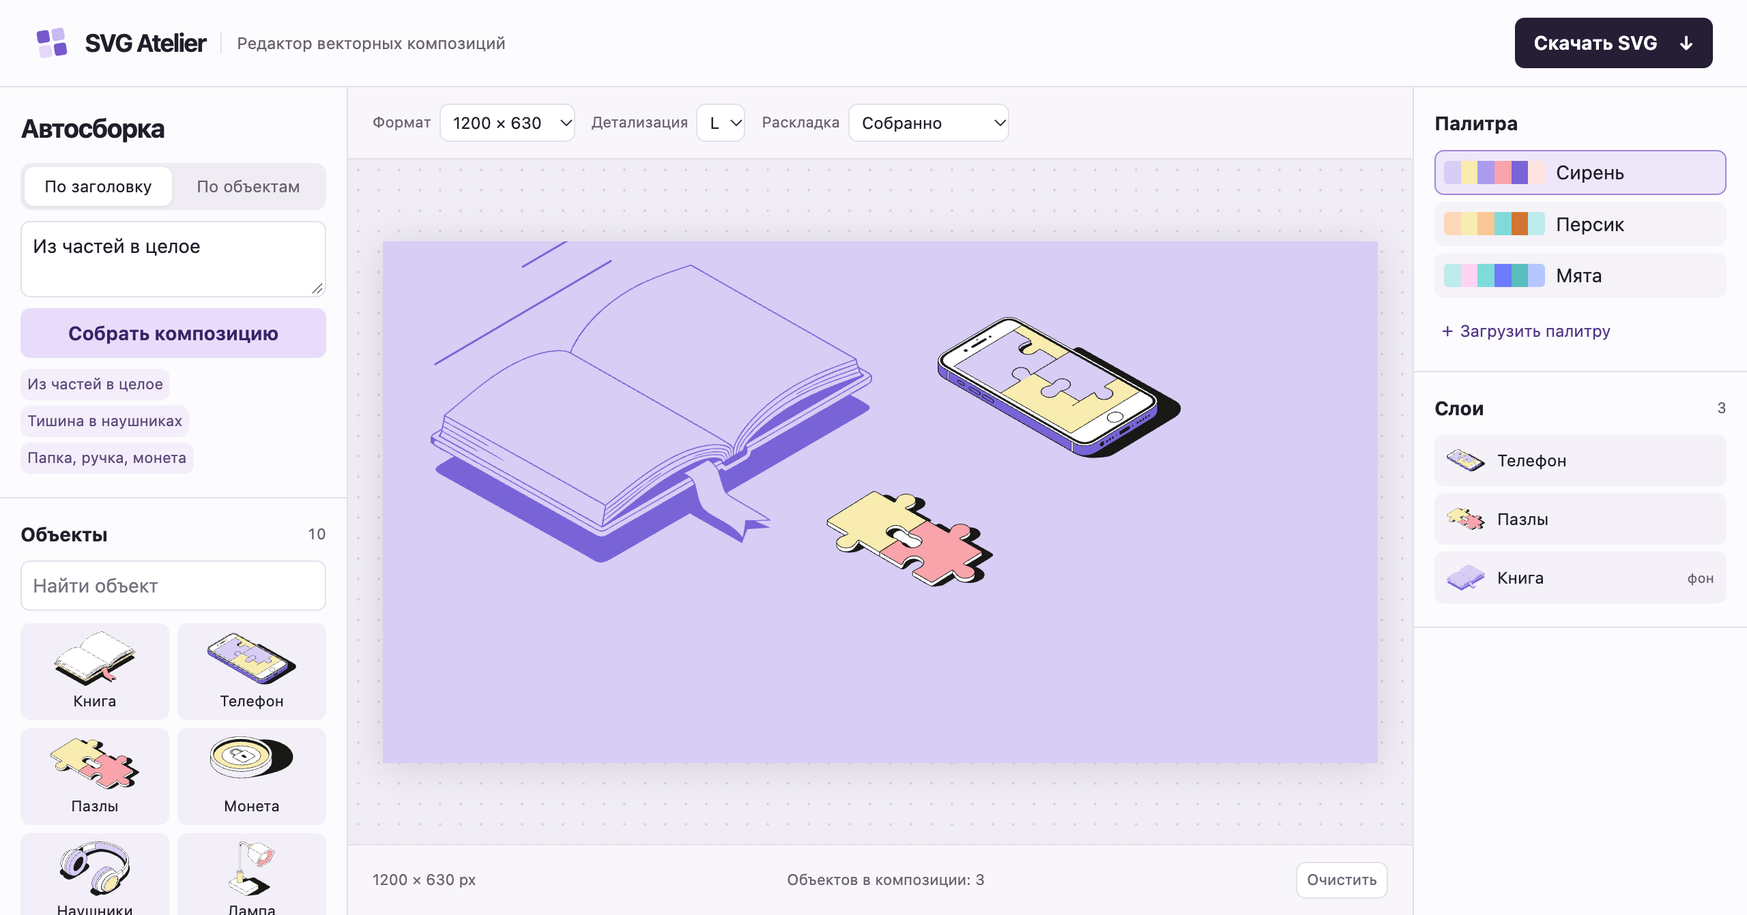
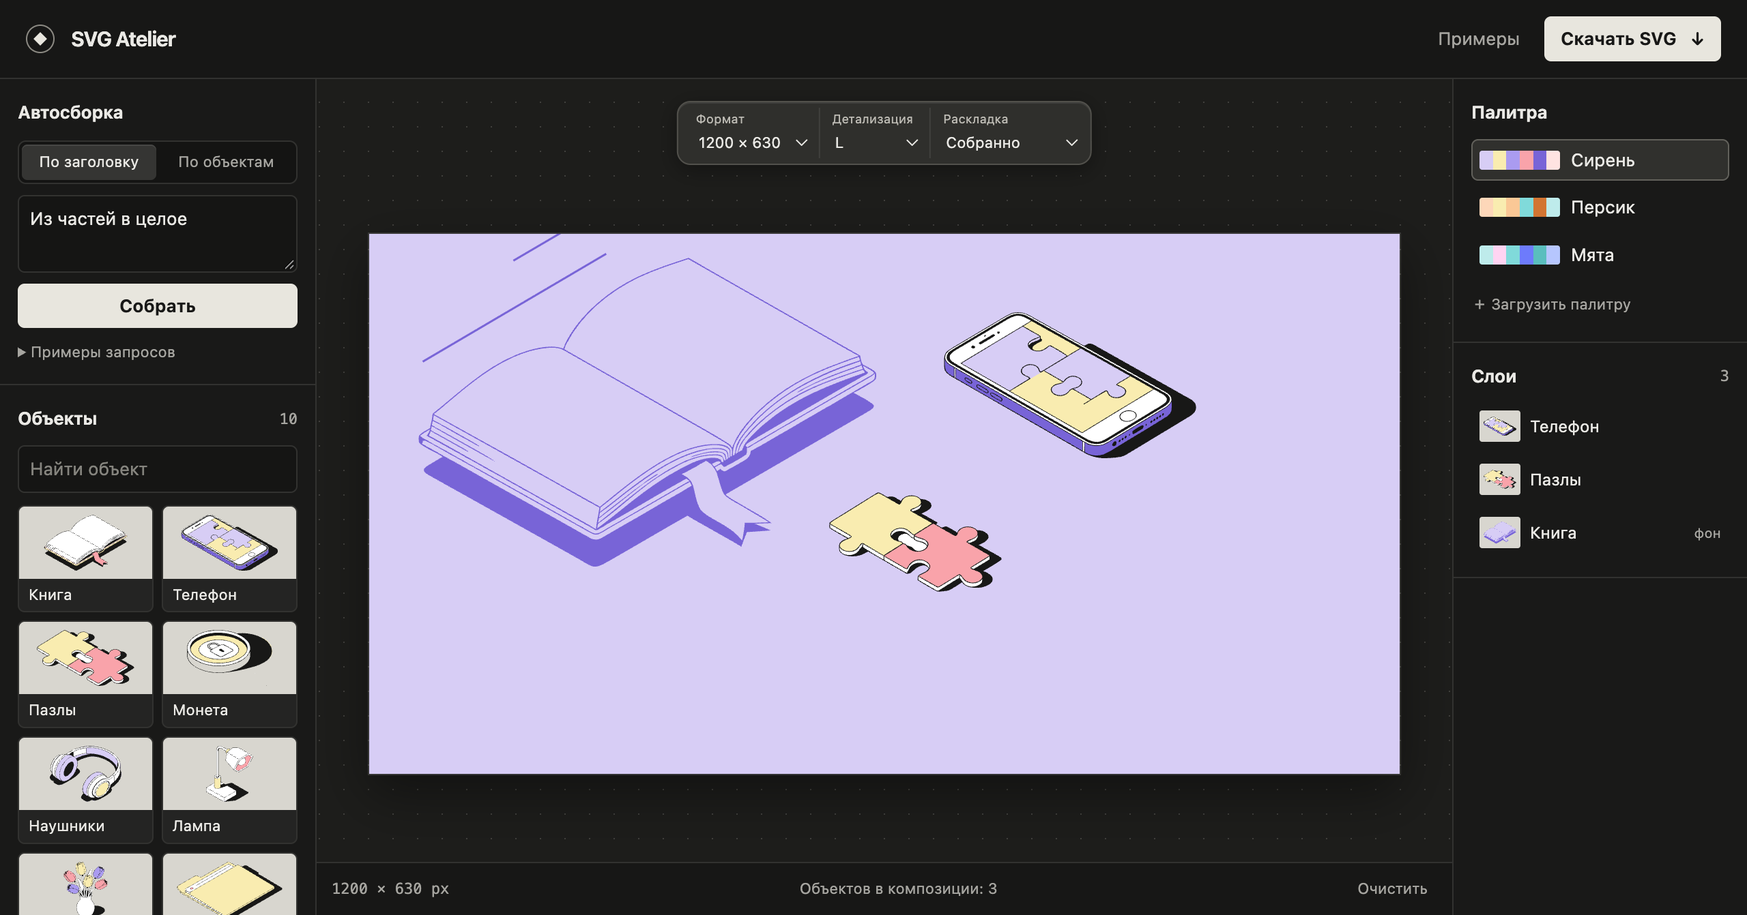
Apply dark theme and update editor screenshot

diff --git a/style.css b/style.css
@@ -1,30 +1,191 @@
-:root{font-family:system-ui,-apple-system,sans-serif;color:#211d29;background:#f2f0f6;font-size:14px;line-height:1.35;--ink:#211d29;--muted:#68616f;--border:#e5e0ea;--violet:#7153c4;--panel:#fcfbfd;}
-*{box-sizing:border-box;}body{margin:0;}button,input,textarea,select{font:inherit;color:inherit;}button,select,.file{cursor:pointer;}button{border:0;background:none;}button:disabled{cursor:default;opacity:.42;}button:focus-visible,input:focus-visible,textarea:focus-visible,select:focus-visible,.file:focus-within{outline:2px solid var(--violet);outline-offset:2px;}h1,h2,p{margin:0;}h1{font-size:19px;letter-spacing:-.035em;}h2{font-size:14px;font-weight:700;}button,.file,input,textarea,select{border-radius:7px;}[hidden]{display:none!important;}
-.top{height:64px;padding:0 25px;display:flex;justify-content:space-between;align-items:center;background:var(--panel);border-bottom:1px solid var(--border);}
-.brand{display:flex;align-items:center;gap:11px;}.brand strong{font-size:18px;letter-spacing:-.045em;}.brand span{border-left:1px solid var(--border);padding-left:11px;color:var(--muted);font-size:12px;}
-.mark{width:26px;height:26px;display:grid;grid-template-columns:1fr 1fr;gap:2px;transform:rotate(-9deg);padding:3px;}.mark i{background:#7659cc;border-radius:2px;}.mark i:nth-child(2){background:#c8b9f2;}.mark i:nth-child(3){background:#e3d8fb;}
-.dark,.accent{padding:9px 14px;font-weight:650;}.dark{background:#251e35;color:white;}.dark span{margin-left:12px;}.accent{background:#e7ddfa;color:#382367;width:100%;}.accent:hover{background:#dbcbf7;}
-.layout{display:grid;grid-template-columns:255px minmax(340px,1fr) 245px;min-height:calc(100dvh - 64px);}.left,.right{background:var(--panel);}.left{border-right:1px solid var(--border);}.right{border-left:1px solid var(--border);}.left section,.right section{padding:17px 15px;border-bottom:1px solid var(--border);}
-.tabs{display:grid;grid-template-columns:1fr 1fr;gap:2px;margin:13px 0 8px;background:#efedf3;padding:3px;border-radius:8px;}.tabs button{white-space:nowrap;font-size:12px;padding:6px 4px;color:var(--muted);}.tabs [aria-pressed=true]{background:white;color:var(--ink);box-shadow:0 1px 3px #211d2914;}
-input,textarea,select{min-width:0;background:white;border:1px solid var(--border);padding:8px;}textarea{width:100%;resize:vertical;min-height:56px;display:block;margin-bottom:8px;}input[type=search]{width:100%;margin-bottom:9px;}input::placeholder,textarea::placeholder{color:#77717f;}
-.examples{display:flex;gap:4px;flex-wrap:wrap;margin-top:8px;}.examples button{font-size:11px;color:#5d487b;padding:4px 5px;background:#f3eef9;}.examples button:hover{background:#e7ddfa;}
-.heading{display:flex;align-items:center;justify-content:space-between;margin-bottom:10px;}.heading output{font-size:11px;color:var(--muted);font-variant-numeric:tabular-nums;}
-.assets{display:grid;grid-template-columns:1fr 1fr;gap:6px;}.asset{min-width:0;display:grid;align-content:center;gap:4px;justify-items:center;background:#f3eff8;border:1px solid transparent;padding:5px;min-height:62px;}.asset:hover{border-color:#c6b4f1;background:#ece4f9;}.asset svg{width:65px;height:40px;overflow:visible;}.asset span{font-size:11px;overflow:hidden;text-overflow:ellipsis;max-width:100%;white-space:nowrap;}
-.file{position:relative;display:block;width:fit-content;margin-top:12px;color:#503587;font-size:12px;padding:4px;}.file input{position:absolute;opacity:0;inset:0;width:100%;padding:0;cursor:pointer;}
-.workbench{display:grid;grid-template-rows:auto minmax(350px,1fr) auto;min-width:0;background:#f0edf5;}.board-bar,.board-footer{display:flex;gap:12px;align-items:center;padding:12px 18px;background:#f8f6fb;}.board-bar{border-bottom:1px solid var(--border);flex-wrap:wrap;}.board-footer{border-top:1px solid var(--border);color:var(--muted);font-size:11px;justify-content:space-between;}.board-footer button{background:white;border:1px solid var(--border);padding:5px 7px;}.board-footer output{white-space:nowrap;}.field{display:flex;gap:6px;align-items:center;}.field label{font-size:11px;color:var(--muted);}.field select{font-size:12px;padding:5px;}
-.stage{min-width:0;display:grid;place-items:center;padding:22px;background-image:radial-gradient(#d9d2e5 1px,transparent 1px);background-size:15px 15px;overflow:hidden;}
-#canvas{display:block;width:var(--canvas-width,100%);height:auto;max-width:100%;max-height:68dvh;background:#d7cdf5;box-shadow:0 3px 28px #30204d25;overflow:hidden;touch-action:none;}.scene-item{cursor:grab;}.scene-item:active{cursor:grabbing;}.selection{pointer-events:none;stroke:#5030a9;stroke-width:1.5;stroke-dasharray:5 3;vector-effect:non-scaling-stroke;fill:none;}
-#palette-list{display:grid;gap:5px;margin-top:10px;}.palette-option{display:grid;grid-template-columns:74px 1fr;align-items:center;gap:8px;text-align:left;background:#f5f2f8;border:1px solid transparent;padding:6px;}.palette-option[aria-pressed=true]{border-color:#9e86d8;background:#eee7fa;}.swatches{display:flex;border-radius:3px;overflow:hidden;}.swatches i{height:17px;flex:1;}
-#layers{display:grid;gap:5px;}.layer{overflow:hidden;display:flex;align-items:center;gap:9px;padding:7px 8px;text-align:left;background:#f4f1f8;border:1px solid transparent;}.layer[aria-pressed=true]{border-color:#aa95de;background:#eee6fa;}.layer svg{width:28px;height:22px;flex:none;}.layer span{overflow:hidden;text-overflow:ellipsis;white-space:nowrap;font-size:12px;}.layer small{margin-left:auto;color:var(--muted);font-size:10px;}.layer-note{font-size:12px;color:var(--muted);}
-.inputs{display:grid;grid-template-columns:repeat(3,minmax(0,1fr));gap:6px;margin-top:9px;}.inputs label{display:grid;gap:4px;font-size:11px;color:var(--muted);}.inputs input{width:100%;font-size:12px;padding:5px;}.mono{display:flex;gap:5px;align-items:center;margin:9px 0;font-size:12px;}.mono input{accent-color:var(--violet);}.layer-actions{display:flex;gap:3px;flex-wrap:wrap;}.layer-actions button{background:#f1ebf8;padding:6px 8px;font-size:11px;}.layer-actions button:hover{background:#eae0f8;}
-.sr{position:absolute;overflow:hidden;clip-path:inset(50%);width:1px;height:1px;white-space:nowrap;}
-@media(max-width:1080px){.layout{grid-template-columns:205px minmax(320px,1fr) 205px;}.left section,.right section{padding:13px 10px;}.stage{padding:14px;}}
-@media(max-width:760px){.layout{grid-template-columns:1fr 1fr;}.workbench{grid-column:1/-1;grid-row:1;grid-template-rows:auto minmax(230px,auto) auto;}.left,.right{min-width:0;}.right{border:0;}.top{height:54px;padding:0 12px;}.brand span{display:none;}.board-bar,.board-footer{padding:8px;gap:7px;}.stage{padding:12px;}#canvas{max-height:44dvh;}.field label{font-size:10px;}}
-@media(prefers-reduced-motion:no-preference){button{transition:background-color 120ms,border-color 120ms;}}
-@media(min-width:761px){
-  .layout{height:calc(100dvh - 64px);grid-template-rows:minmax(0,1fr);}
-  .left,.right{overflow:auto;scrollbar-width:thin;}
-  .workbench{grid-template-rows:auto minmax(0,1fr) auto;}
-  .stage{padding:clamp(10px,2vw,26px);}
-  #canvas{max-height:min(100%,68dvh);}
+:root {
+  color-scheme: dark;
+  font: 13px/1.45 system-ui, -apple-system, sans-serif;
+  color: #eae9e5;
+  background: #121211;
+  --ink: #eae9e5;
+  --muted: #a6a5a0;
+  --quiet: #85847e;
+  --panel: #191918;
+  --border: #323230;
+  --raised: #242423;
+  --hover: #30302e;
+  --paper: #e8e6de;
+  --mono: ui-monospace, SFMono-Regular, Consolas, monospace;
+}
+* { box-sizing: border-box; }
+body { margin: 0; }
+button, input, textarea, select { font: inherit; color: inherit; }
+button, select, .file { cursor: pointer; }
+button { border: 0; background: none; }
+button:disabled { cursor: default; opacity: .45; }
+:focus-visible, .file:focus-within { outline: 2px solid #e8e6de; outline-offset: 3px; }
+h1, h2, p { margin: 0; }
+h1, h2 { font-size: 13px; font-weight: 650; letter-spacing: -.01em; }
+[hidden] { display: none !important; }
+a { color: inherit; }
+
+.top {
+  height: 58px;
+  display: flex;
+  justify-content: space-between;
+  align-items: center;
+  gap: 16px;
+  padding: 0 19px;
+  background: #171716;
+  border-bottom: 1px solid var(--border);
+}
+.brand, .top-actions { display: flex; align-items: center; gap: 12px; }
+.brand { color: var(--ink); text-decoration: none; }
+.brand strong { font-size: 15px; font-weight: 650; letter-spacing: -.035em; }
+.top-actions a { color: var(--muted); padding: 6px; text-decoration: none; }
+.top-actions a:hover { color: var(--ink); }
+.mark {
+  display: grid;
+  width: 21px;
+  height: 21px;
+  place-items: center;
+  border: 1px solid #8c8a83;
+  border-radius: 50%;
+}
+.mark::after { content: ""; width: 7px; height: 7px; background: var(--paper); transform: rotate(45deg); }
+.dark, .accent {
+  background: var(--paper);
+  color: #181817;
+  border: 1px solid transparent;
+  border-radius: 5px;
+  padding: 6px 11px;
+  font-weight: 650;
+}
+.dark:hover, .accent:hover { background: #fffef8; }
+.dark span { margin-left: 7px; }
+.accent { width: 100%; }
+
+.layout { display: grid; grid-template-columns: 232px minmax(0, 1fr) 216px; height: calc(100dvh - 58px); }
+.left, .right { min-width: 0; background: var(--panel); overflow: auto; scrollbar-width: thin; }
+.left { border-right: 1px solid var(--border); }
+.right { border-left: 1px solid var(--border); }
+.left section, .right section { padding: 15px 13px; border-bottom: 1px solid var(--border); }
+.heading { display: flex; align-items: center; justify-content: space-between; margin-bottom: 10px; }
+.heading output { color: var(--muted); font: 11px var(--mono); }
+
+.tabs { display: grid; grid-template-columns: 1fr 1fr; margin: 11px 0 8px; padding: 2px; gap: 2px; background: #141413; border: 1px solid var(--border); border-radius: 6px; }
+.tabs button { color: var(--muted); padding: 5px 2px; font-size: 11px; white-space: nowrap; border-radius: 4px; }
+.tabs [aria-pressed="true"] { color: var(--ink); background: #353533; box-shadow: inset 0 1px #ffffff17; }
+input, textarea, select {
+  min-width: 0;
+  background: #151514;
+  border: 1px solid var(--border);
+  border-radius: 5px;
+  padding: 7px 8px;
+}
+input::placeholder, textarea::placeholder { color: var(--quiet); }
+textarea { display: block; width: 100%; min-height: 57px; resize: vertical; margin-bottom: 8px; }
+input[type="search"] { width: 100%; margin-bottom: 9px; }
+.examples { margin-top: 10px; }
+.examples summary { color: var(--muted); cursor: pointer; font-size: 11px; }
+#examples { display: flex; flex-wrap: wrap; gap: 4px; margin-top: 5px; }
+#examples button { padding: 3px 5px; border-radius: 3px; background: var(--raised); color: var(--ink); text-align: left; font-size: 11px; }
+#examples button:hover { background: var(--hover); }
+
+.assets { display: grid; grid-template-columns: repeat(2, minmax(0, 1fr)); gap: 6px; }
+.asset { min-width: 0; padding: 0; text-align: left; border-radius: 5px; overflow: hidden; background: var(--raised); border: 1px solid var(--border); }
+.asset:hover { border-color: #88867e; background: var(--hover); }
+.asset svg { display: block; height: 53px; width: 100%; padding: 6px 9px; background: #d8d6cf; }
+.asset span { display: block; padding: 4px 7px; overflow: hidden; text-overflow: ellipsis; white-space: nowrap; font-size: 11px; }
+.file { position: relative; display: block; width: fit-content; margin-top: 9px; color: var(--muted); font-size: 11px; padding: 4px 1px; }
+.file:hover { color: var(--ink); }
+.file input { position: absolute; opacity: 0; inset: 0; width: 100%; padding: 0; cursor: pointer; }
+
+.workbench { position: relative; display: grid; grid-template-rows: minmax(0, 1fr) auto; min-width: 0; isolation: isolate; }
+.board-bar {
+  position: absolute;
+  z-index: 1;
+  top: 16px;
+  left: 50%;
+  transform: translateX(-50%);
+  display: flex;
+  align-items: center;
+  justify-content: center;
+  gap: 3px;
+  padding: 4px;
+  width: max-content;
+  max-width: calc(100% - 20px);
+  border: 1px solid #52514c;
+  border-radius: 10px;
+  background: #292927;
+  box-shadow: inset 0 1px #ffffff15, 0 4px 15px #0005;
+}
+@supports (backdrop-filter: blur(12px)) {
+  .board-bar { background: #30302de8; backdrop-filter: blur(12px) saturate(.7); }
+}
+.field { display: grid; gap: 1px; padding: 2px 4px; }
+.field + .field { border-left: 1px solid #ffffff16; }
+.field label { padding: 0 5px; color: #bdbbb4; font-size: 9px; }
+.field select { width: 100%; font-size: 11px; padding: 2px 3px; border: 0; background: transparent; }
+.field select option { background: #272725; color: var(--ink); }
+
+.stage {
+  container-type: size;
+  display: grid;
+  place-items: center;
+  overflow: hidden;
+  padding: 77px clamp(14px, 3vw, 44px) 28px;
+  background-color: #1d1d1b;
+  background-image: radial-gradient(#41403d 0.65px, transparent 0.65px);
+  background-size: 18px 18px;
+  background-position: center;
+}
+#canvas {
+  display: block;
+  width: min(100%, calc(100cqh * var(--canvas-ratio, 1.9)));
+  height: auto;
+  overflow: hidden;
+  box-shadow: 0 0 0 1px #ffffff21, 0 14px 38px #0006;
+  touch-action: none;
+}
+.scene-item { cursor: grab; }
+.scene-item:active { cursor: grabbing; }
+.selection { pointer-events: none; stroke: #173b88; stroke-width: 1.5; stroke-dasharray: 5 3; vector-effect: non-scaling-stroke; fill: none; }
+.board-footer { display: flex; align-items: center; justify-content: space-between; gap: 10px; min-height: 39px; padding: 4px 11px; background: #171716; border-top: 1px solid var(--border); color: var(--muted); font-size: 11px; }
+.board-footer output { white-space: nowrap; font-family: var(--mono); }
+.board-footer p { overflow-wrap: anywhere; }
+.board-footer button { color: var(--muted); padding: 4px 7px; border-radius: 4px; }
+.board-footer button:hover:not(:disabled) { color: var(--ink); background: var(--hover); }
+
+#palette-list, #layers { display: grid; gap: 4px; }
+#palette-list { margin-top: 10px; }
+.palette-option { display: grid; grid-template-columns: 59px 1fr; align-items: center; gap: 8px; text-align: left; border: 1px solid transparent; border-radius: 5px; padding: 5px; }
+.palette-option:hover, .layer:hover { background: var(--raised); }
+.palette-option[aria-pressed="true"], .layer[aria-pressed="true"] { background: #30302d; border-color: #62615b; }
+.swatches { display: flex; border-radius: 2px; overflow: hidden; }
+.swatches i { height: 14px; flex: 1; }
+.layer { display: flex; align-items: center; gap: 7px; padding: 5px; text-align: left; border: 1px solid transparent; border-radius: 5px; }
+.layer svg { width: 30px; height: 23px; padding: 3px; border-radius: 2px; background: #d8d6cf; flex: none; }
+.layer span { overflow: hidden; text-overflow: ellipsis; white-space: nowrap; font-size: 12px; }
+.layer small { margin-left: auto; color: var(--muted); font-size: 10px; }
+.layer-note { font-size: 12px; color: var(--muted); }
+.inputs { display: grid; grid-template-columns: repeat(3, minmax(0, 1fr)); gap: 5px; margin-top: 9px; }
+.inputs label { display: grid; gap: 4px; font-size: 11px; color: var(--muted); }
+.inputs input { width: 100%; font: 11px var(--mono); padding: 6px 3px; }
+.mono { display: flex; gap: 5px; align-items: center; margin: 9px 0; font-size: 12px; }
+.mono input { accent-color: var(--paper); }
+.layer-actions { display: flex; gap: 3px; flex-wrap: wrap; }
+.layer-actions button { background: var(--raised); border: 1px solid var(--border); border-radius: 4px; padding: 4px 6px; font-size: 11px; }
+.layer-actions button:hover:not(:disabled) { background: var(--hover); }
+
+.sr { position: absolute; overflow: hidden; clip-path: inset(50%); width: 1px; height: 1px; white-space: nowrap; }
+@media (max-width: 1000px) { .layout { grid-template-columns: 189px minmax(0, 1fr) 178px; } }
+@media (max-width: 720px) {
+  .top { height: 51px; padding: 0 10px; }
+  .top-actions { gap: 5px; }
+  .layout { grid-template-columns: minmax(0, 1fr) minmax(0, 1fr); height: auto; }
+  .workbench { grid-column: 1 / -1; grid-row: 1; grid-template-rows: clamp(294px, 53svh, 510px) auto; }
+  .right { border-left: 0; }
+  .left section, .right section { padding: 12px 8px; }
+  .stage { padding: 69px 12px 16px; }
+  .board-bar { top: 10px; }
+}
+@media (prefers-reduced-motion: no-preference) {
+  button, .asset, .file { transition: background-color 120ms, border-color 120ms, color 120ms; }
 }

diff --git a/demo.html b/demo.html
@@ -6,24 +6,24 @@
 <link rel="stylesheet" href="style.css">
 <style>
   .demo{max-width:1150px;margin:auto;padding:42px 22px;}
-  .demo h1{font-size:clamp(28px,5vw,48px);margin:0 0 12px;line-height:1.05;}
+  .demo h1{font-size:clamp(26px,4vw,40px);margin:0 0 10px;line-height:1.08;letter-spacing:-.035em;}
   .demo p{max-width:660px;color:var(--muted);line-height:1.55;}
   .demo-grid{display:grid;grid-template-columns:repeat(3,minmax(0,1fr));gap:14px;margin:25px 0;}
-  .demo-card{display:flex;flex-direction:column;background:var(--panel);border:1px solid var(--border);border-radius:10px;overflow:hidden;}
-  .demo-card figure{background:#eae5f3;display:grid;place-items:center;margin:0;height:250px;padding:12px;}
-  .demo-card img{display:block;max-height:226px;max-width:100%;box-shadow:0 1px 8px #211d2917;}
+  .demo-card{display:flex;flex-direction:column;background:var(--panel);border:1px solid var(--border);border-radius:6px;overflow:hidden;}
+  .demo-card figure{background:#222220;display:grid;place-items:center;margin:0;height:250px;padding:12px;}
+  .demo-card img{display:block;max-height:226px;max-width:100%;box-shadow:0 5px 16px #0005;}
   .demo-card div{padding:14px;display:grid;gap:8px;}
   .demo-card small{color:var(--muted);}
-  .demo a{color:#503587;text-underline-offset:3px;}
+  .demo a{color:var(--ink);text-underline-offset:3px;}
   .demo-card h2{font-size:16px;}
   @media(max-width:740px){.demo-grid{grid-template-columns:1fr;}.demo-card figure{height:220px;}.demo-card img{max-height:196px;}}
 </style>
 </head>
 <body>
-<header class="top"><div class="brand"><div class="mark" aria-hidden="true"><i></i><i></i><i></i><i></i></div><strong>SVG Atelier</strong><span>Демонстрация</span></div></header>
+<header class="top"><a class="brand" href="index.html"><span class="mark" aria-hidden="true"></span><strong>SVG Atelier</strong></a><div class="top-actions"><a href="index.html">Редактор</a></div></header>
 <main class="demo">
 <h1>Три композиции из одной библиотеки</h1>
-<p>Откройте пример в редакторе, чтобы изменить композицию, сменить палитру, переместить объекты или выгрузить SVG. В третьем примере показан подбор по списку предметов с раскладкой под заголовок.</p>
+<p>Откройте пример в редакторе, чтобы сменить палитру, перетащить объект или выгрузить SVG. В третьем примере показан подбор по списку предметов с раскладкой под заголовок.</p>
 <div class="demo-grid">
   <article class="demo-card"><figure><img src="examples/pieces.svg" alt="Пазлы, телефон и фоновая книга на сиреневом поле"></figure><div><h2>Из частей в целое</h2><small>По заголовку · 1200 × 630 · L · Сирень</small><a href="index.html?demo=0">Открыть в редакторе</a><a href="examples/pieces.svg" download>Скачать пример SVG</a></div></article>
   <article class="demo-card"><figure><img src="examples/headphones.svg" alt="Наушники, цветы и фоновый телефон на мятном поле"></figure><div><h2>Тишина в наушниках</h2><small>По заголовку · 1080 × 1080 · S · Мята</small><a href="index.html?demo=1">Открыть в редакторе</a><a href="examples/headphones.svg" download>Скачать пример SVG</a></div></article>

diff --git a/app.js b/app.js
@@ -73,7 +73,7 @@
     canvas.setAttribute("viewBox", `0 0 ${w} ${h}`);
     canvas.setAttribute("width", w);
     canvas.setAttribute("height", h);
-    canvas.style.setProperty("--canvas-width", `min(100%, ${68 * (w / h)}dvh)`);
+    canvas.style.setProperty("--canvas-ratio", w / h);
     canvas.innerHTML = api.background(state) + state.objects.map((item) =>
       `<g class="scene-item" data-layer="${item.id}" transform="${api.transform(item, state)}">${api.art(item, state)}</g>`).join("")
       + '<g id="selection-outline" aria-hidden="true"></g>';
@@ -126,14 +126,14 @@
     persist();
   }
 
-  function assemble() {
+  function assemble(libraryState = state) {
     const query = state.query.trim();
     if (!query) {
       status("Введите заголовок или названия объектов.");
       $("query").focus();
       return;
     }
-    const { keys, missing } = api.resolve(query, state.mode, state);
+    const { keys, missing } = api.resolve(query, state.mode, libraryState);
     if (!keys.length) {
       status("Подходящих объектов нет. Попробуйте другие слова или выберите объект в библиотеке.");
       return;
@@ -153,7 +153,7 @@
     const { label, ...demo } = demos[Number(button.dataset.demo)];
     Object.assign(state, demo, { custom: null });
     tools();
-    assemble();
+    assemble({ ...state, imports: undefined });
   });
 
   document.querySelector(".tabs").addEventListener("click", (event) => {
@@ -172,7 +172,7 @@
   $("query").addEventListener("keydown", (event) => {
     if (event.key === "Enter" && (event.metaKey || event.ctrlKey)) assemble();
   });
-  $("compose").addEventListener("click", assemble);
+  $("compose").addEventListener("click", () => assemble());
   $("search").addEventListener("input", drawAssets);
   $("palette-list").addEventListener("click", (event) => {
     const button = event.target.closest("[data-palette]");

diff --git a/index.html b/index.html
@@ -8,8 +8,11 @@
 </head>
 <body>
 <header class="top">
-  <div class="brand"><div class="mark" aria-hidden="true"><i></i><i></i><i></i><i></i></div><strong>SVG Atelier</strong><span>Редактор векторных композиций</span></div>
-  <button class="dark" id="export">Скачать SVG <span aria-hidden="true">↓</span></button>
+  <div class="brand"><span class="mark" aria-hidden="true"></span><strong>SVG Atelier</strong></div>
+  <div class="top-actions">
+    <a href="demo.html">Примеры</a>
+    <button class="dark" id="export">Скачать SVG <span aria-hidden="true">↓</span></button>
+  </div>
 </header>
 <main class="layout">
   <aside class="left">
@@ -21,8 +24,8 @@
       </div>
       <label class="sr" id="query-label" for="query">Заголовок или метафора</label>
       <textarea id="query" rows="2" placeholder="Например, «Из частей в целое»"></textarea>
-      <button id="compose" class="accent">Собрать композицию</button>
-      <div id="examples" class="examples"></div>
+      <button id="compose" class="accent">Собрать</button>
+      <details class="examples"><summary>Примеры запросов</summary><div id="examples"></div></details>
     </section>
     <section class="library">
       <div class="heading"><h2>Объекты</h2><output id="count"></output></div>
